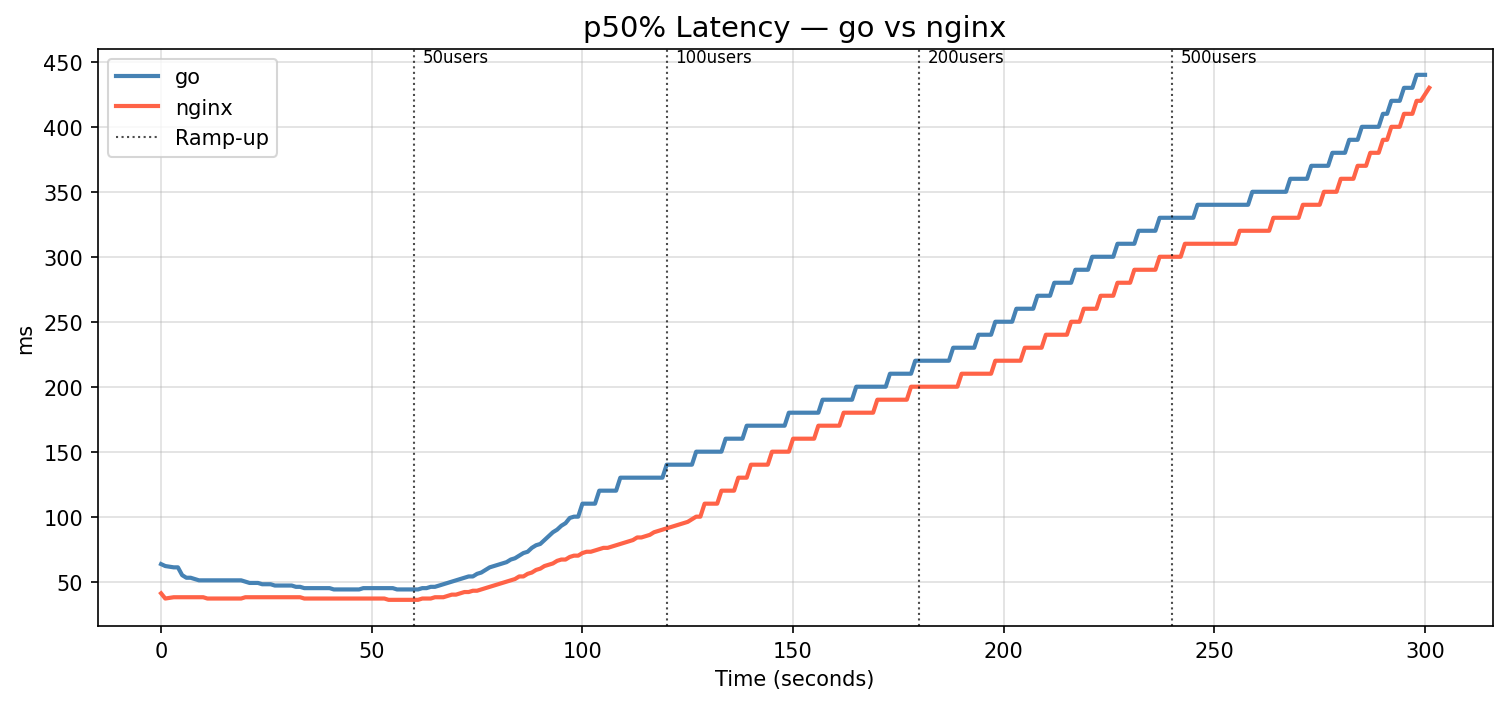
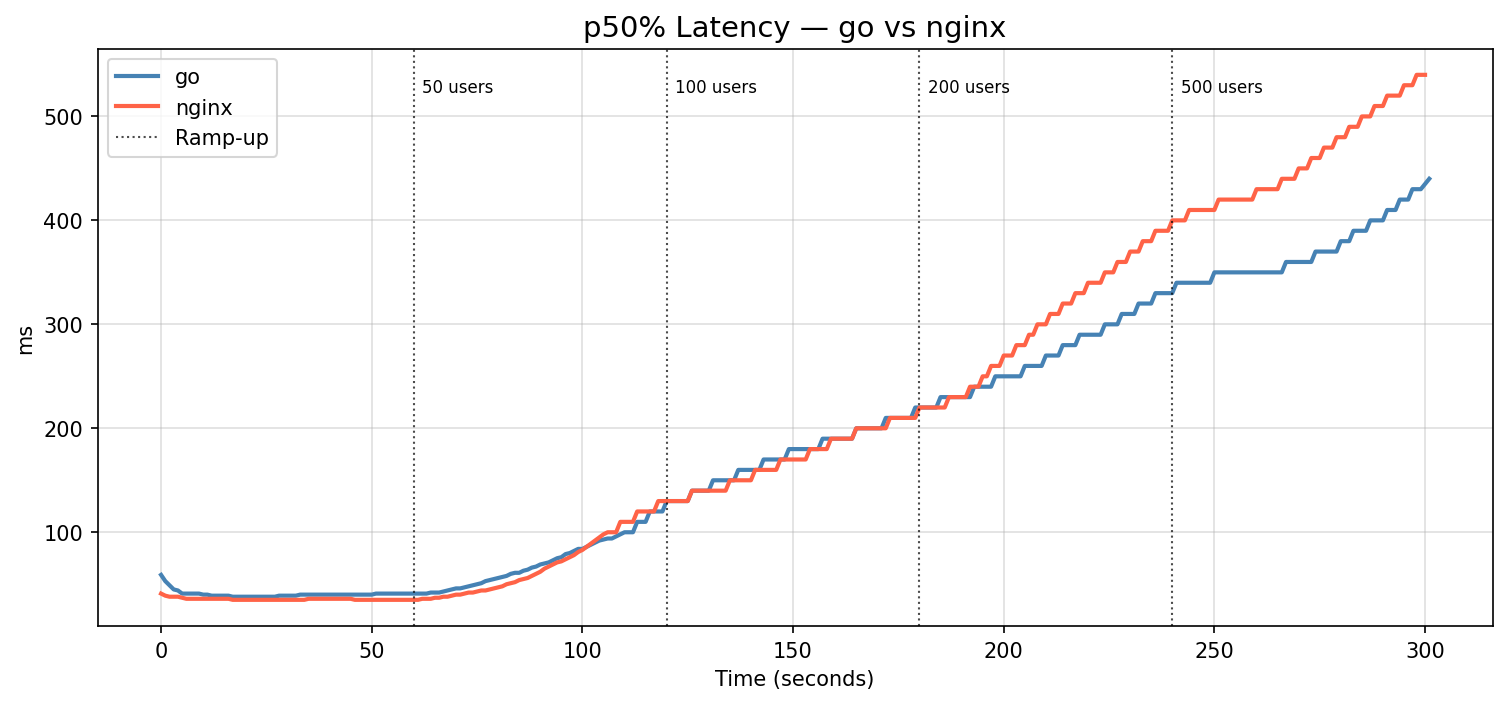
retry registers and logins, graph better

diff --git a/evaluation/locustfile.py b/evaluation/locustfile.py
@@ -1,6 +1,8 @@
 import random
 import string
+import time
 from locust import FastHttpUser, LoadTestShape, task
+from locust.exception import StopUser
 
 # --- GLOBAL SHARED STATE ---
 shared_post_ids = []
@@ -29,37 +31,47 @@ class StaircaseShape(LoadTestShape):
 
 
 class RedditGatewayTester(FastHttpUser):
+    def post_with_retry(self, url, data, max_retries=5, backoff=2.0):
+        for attempt in range(max_retries):
+            with self.client.post(
+                url, data=data, catch_response=True, allow_redirects=False
+            ) as resp:
+                if resp.status_code in (200, 201, 301, 302):
+                    resp.success()
+                    return resp
+                elif resp.status_code in (500, 502, 503):
+                    wait = backoff**attempt  # 1s, 2s, 4s, 8s, 16s
+                    resp.failure(
+                        f"{url} returned {resp.status_code}, retrying in {wait:.1f}s"
+                    )
+                    time.sleep(wait)
+                else:
+                    resp.failure(f"{url} unexpected {resp.status_code}")
+                    return resp  # don't retry 4xx
+        # Return a dummy-like indicator after exhausting retries
+        raise StopUser()
 
     def on_start(self):
-        """Setup user, login, and seed at least one post so browsing tasks work immediately."""
         self.action_count = 0
-
+        self.authenticated = False
         self.username = f"user_{random_string()}"
         self.password = "password123"
         self.subreddit_name = f"sub_{random_string()}"
 
-        # Register & Login
-        self.client.post(
-            "/auth/register",
-            data={"username": self.username, "password": self.password},
+        self.post_with_retry(
+            "/auth/register", {"username": self.username, "password": self.password}
         )
-        self.client.post(
-            "/auth/login", data={"username": self.username, "password": self.password}
+        self.post_with_retry(
+            "/auth/login", {"username": self.username, "password": self.password}
         )
 
-        # Create initial subreddit
-        resp = self.client.post(
+        self.authenticated = True
+
+        self.post_with_retry(
             "/subreddit/create",
-            data={
-                "name": self.subreddit_name,
-                "description": "Initial load testing subreddit",
-            },
-            allow_redirects=False,
+            {"name": self.subreddit_name, "description": "Load testing subreddit"},
         )
-
-        if resp.status_code in (200, 201, 301, 302):
-            shared_subreddits.append(self.subreddit_name)
-
+        shared_subreddits.append(self.subreddit_name)
         self._create_post(self.subreddit_name)
 
     def _create_post(self, target_sub):

diff --git a/evaluation/graph_results.py b/evaluation/graph_results.py
@@ -71,8 +71,8 @@ def make_plot(datasets, y_col, title, ylabel):
         )
         ax.text(
             t + 2,
-            ax.get_ylim()[1],
-            f"{STAGES[i + 1]['users']}users",
+            ax.get_ylim()[1] - (ax.get_ylim()[1] * 0.05),
+            f"{STAGES[i + 1]['users']} users",
             fontsize=8,
             color="black",
             va="top",
